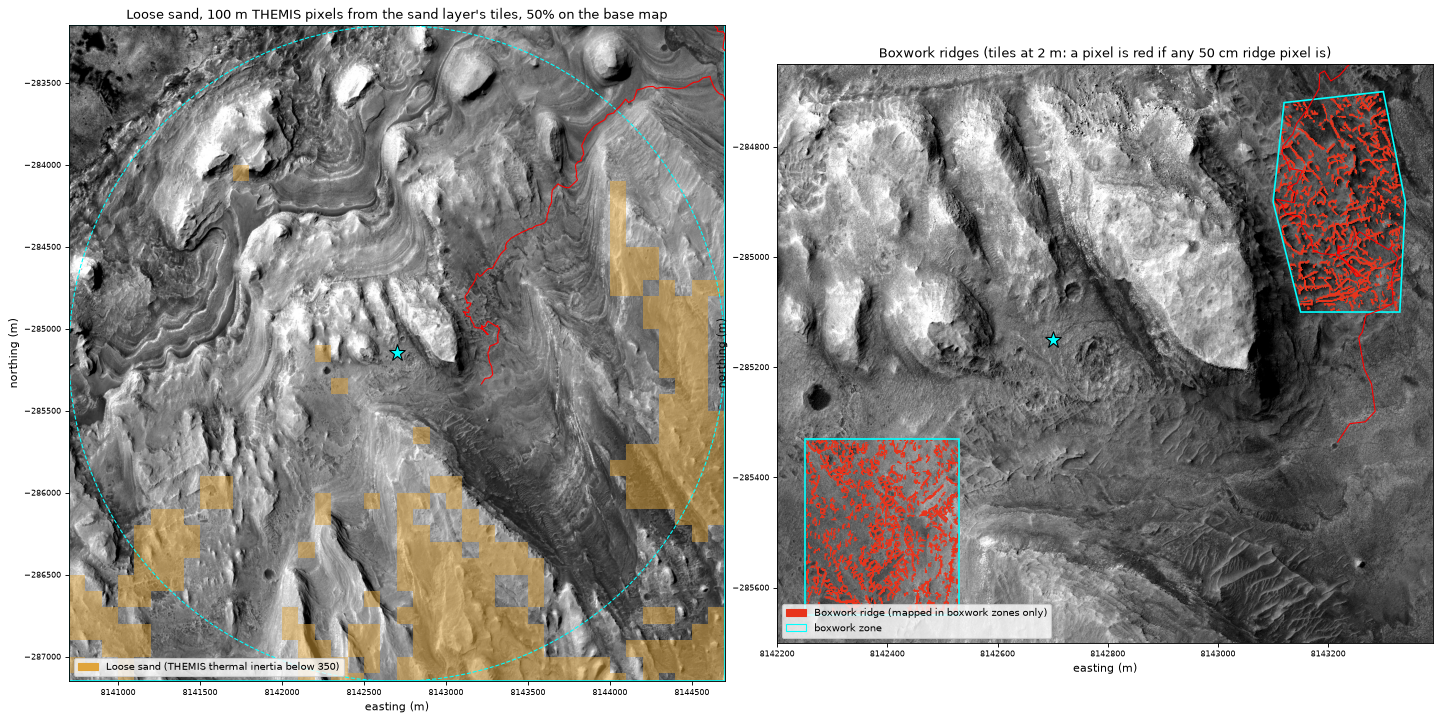
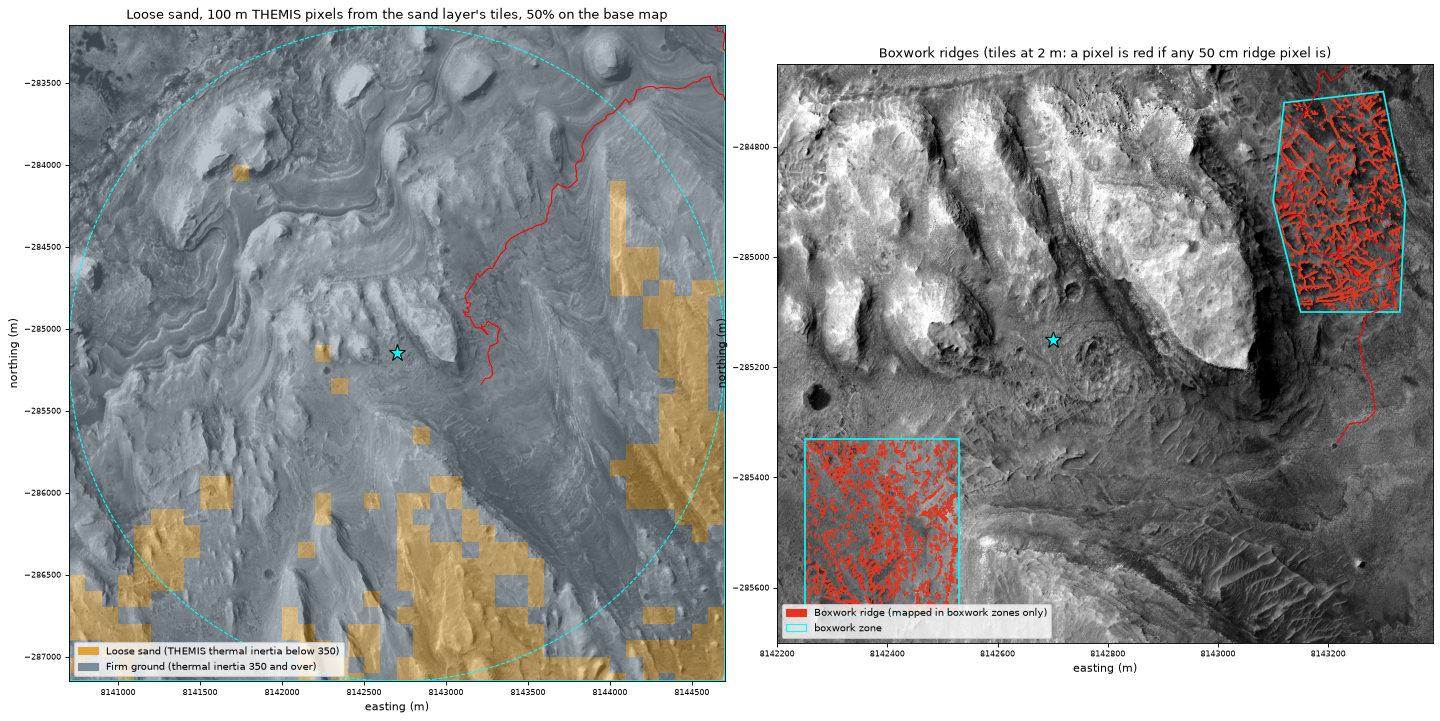
fix: reachable science targets, staged route masks, firm ground and whole chemistry overview (#20)

Changed region(s): [[0.0312, 0.0305, 0.5, 0.9459], [0.4375, 0.9154, 0.4688, 0.9459]]

diff --git a/prep/tests/test_gale_walkability_science.py b/prep/tests/test_gale_walkability_science.py
@@ -6,7 +6,9 @@ not the hollows between them nor a lone bright speck; the route's own reader rea
 both files as masks. Layer writer: each layer.json validates with its group,
 resolution and source. Science targets: a target on a drill site, on Curiosity's
 track or past the walk radius is refused; a ridge target must sit on a ridge and a
-hollow target off one.
+hollow target off one, and a target with any other kind is refused; a target walled off
+from base camp by ground over the slope limit is refused. The sand layer's tiles show
+firm ground in its own legend colour and leave only unknown ground transparent.
 
 Expected values are worked by hand from the fixtures, not from the code.
 """
@@ -20,17 +22,22 @@ from PIL import Image
 from rasterio.crs import CRS
 from rasterio.transform import from_origin
 
+from contracts.models.common import Point
 from contracts.models.layer import LayerMeta
+from contracts.models.route_request import Limits
 from contracts.models.site import SiteConfig
 from prep.gale.layers import (
+    FIRM_COLOUR,
+    SAND_COLOUR,
     build_chemistry_layer,
     build_minerals_layer,
     build_ridges_layer,
     build_sand_layer,
 )
-from prep.gale.science import check_targets, drill_sites
+from prep.gale.science import check_reachable, check_targets, drill_sites
 from prep.gale.walkability import SAND_MAX_TI, find_ridges, ridge_raster, sand_raster
 from route.layers import load_grid
+from route.planner import CostGrid
 
 SITE_PROJ = "+proj=eqc +lat_ts=0 +lon_0=0 +R=3396190 +units=m +no_defs"
 SOURCE = {"name": "test source", "url": "https://example.org/source"}
@@ -69,6 +76,30 @@ def test_thermal_inertia_below_the_cutoff_is_loose_sand_and_a_hole_stays_unknown
         assert src.res == (100.0, 100.0)
         assert src.transform.c == 1000.0 and src.transform.f == 2000.0
         assert src.read(1).tolist() == [[1, 1, 0], [0, 255, 1]]
+
+
+def test_the_sand_tiles_colour_sand_and_firm_ground_and_leave_unknown_transparent(tmp_path):
+    # 2 x 2 pixels at 100 m covering the walk area exactly: sand, firm, unknown, firm.
+    nodata = -1.0
+    ti = np.array([[300.0, 400.0], [nodata, 380.0]], dtype=np.float32)
+    sand = sand_raster(
+        _geotiff(tmp_path / "ti.tif", ti, 1000.0, 2200.0, 100.0, nodata), tmp_path / "sand.tif"
+    )
+
+    build_sand_layer(sand, (1000.0, 2000.0, 1200.0, 2200.0), tmp_path / "sand", SOURCE)
+
+    tile = np.asarray(Image.open(tmp_path / "sand" / "tiles" / "0" / "0" / "0.png").convert("RGBA"))
+    colour = {
+        (r, c): "#{:02x}{:02x}{:02x}".format(*tile[r, c, :3]) if tile[r, c, 3] else None
+        for r in range(2)
+        for c in range(2)
+    }
+    assert colour == {
+        (0, 0): SAND_COLOUR,
+        (0, 1): FIRM_COLOUR,
+        (1, 0): None,
+        (1, 1): FIRM_COLOUR,
+    }
 
 
 # ---- ridges -------------------------------------------------------------------------
@@ -292,6 +323,7 @@ def test_a_ridge_centre_and_a_hollow_clear_of_curiosity_pass(ridges):
             "past the walk radius",
         ),
         (HOLLOW_TARGET | {"x": 1075.5}, {}, "outside every boxwork zone"),
+        (HOLLOW_TARGET | {"kind": "crater"}, {}, "kind must be ridge or hollow"),
     ],
 )
 def test_a_target_that_breaks_a_rule_is_refused(ridges, target, changes, reason):
@@ -299,3 +331,36 @@ def test_a_target_that_breaks_a_rule_is_refused(ridges, target, changes, reason)
     with pytest.raises(ValueError, match=f"{target['id']}: .*{reason}") as refused:
         _check([other, target], ridges, **changes)
     assert other["id"] not in str(refused.value)
+
+
+# A 20 x 20 grid of flat 4 m cells from (0, 80) with a ring of 30 degree cells round
+# the 3 x 3 cells of rows and columns 12 to 14; base camp is at cell (2, 2).
+LIMITS = Limits(
+    max_slope_deg=20, max_distance_from_habitat_m=2000, planning_speed_kmh=2, max_walk_h=6
+)
+
+
+def _walled_grid() -> CostGrid:
+    slope = np.zeros((20, 20))
+    slope[11:16, 11:16] = 30.0
+    slope[12:15, 12:15] = 0.0
+    no = np.zeros((20, 20), dtype=bool)
+    return CostGrid(
+        site="gale", min_x=0.0, max_y=80.0, cell_m=4.0, slope_deg=slope, sand=no, ridge=no
+    )
+
+
+def test_a_target_walled_off_from_base_camp_is_refused_and_an_open_one_passes():
+    base_camp = Point(x=10.0, y=70.0)
+    open_ground = {"id": "open", "x": 42.0, "y": 70.0}
+    walled = {"id": "walled", "x": 54.0, "y": 26.0}  # cell (13, 13), inside the ring
+
+    check_reachable(
+        [open_ground], _walled_grid(), start=base_camp, habitat=base_camp, limits=LIMITS
+    )
+    with pytest.raises(ValueError, match="walled: no safe route from base camp") as refused:
+        check_reachable(
+            [open_ground, walled], _walled_grid(), start=base_camp, habitat=base_camp, limits=LIMITS
+        )
+    refused_ids = [line.split(":")[0] for line in str(refused.value).splitlines()[1:]]
+    assert refused_ids == ["walled"]

diff --git a/prep/gale/build_layers_2_3.py b/prep/gale/build_layers_2_3.py
@@ -16,9 +16,11 @@ $REDMARK_DATA/gale/:
 and, in the repo, `files.sand`, `files.ridges` and `science_targets` in sites/gale.yaml
 and copies of the overlays in prep/gale/evidence/.
 
-The science targets are checked before anything is published: each must sit inside
-the walk radius and a boxwork zone, clear of Curiosity's track and drill sites, a
-ridge target on the ridge map and a hollow target off it.
+The science targets are checked before anything is published, the sand and ridge
+rasters included: each must sit inside the walk radius and a boxwork zone, clear of
+Curiosity's track and drill sites, a ridge target on the ridge map and a hollow target
+off it, and the route engine must find a safe route to it from base camp within the
+app's default limits on the new rasters.
 """
 
 import csv
@@ -32,6 +34,7 @@ from pathlib import Path
 
 import yaml
 
+from contracts.models.route_request import Limits
 from contracts.models.site import SiteConfig
 from contracts.paths import REPO_ROOT, data_root
 from prep.common import publish_stage, sha256
@@ -51,8 +54,10 @@ from prep.gale.layers import (
     build_ridges_layer,
     build_sand_layer,
 )
-from prep.gale.science import check_targets, drill_sites, inside_polygon
+from prep.gale.science import check_reachable, check_targets, drill_sites, inside_polygon
 from prep.gale.walkability import ridge_raster, sand_raster
+from route.engine import daylight_s
+from route.layers import load_grid
 
 SITE = REPO_ROOT / "sites" / "gale.yaml"
 WALK_AREA = REPO_ROOT / "prep" / "gale" / "walk_area.yaml"
@@ -60,6 +65,11 @@ SAND_RASTER = "gale/rasters/sand.tif"
 RIDGE_RASTER = "gale/rasters/ridges.tif"
 LAYERS = "gale/layers"
 STAGE = "gale/layers-2-3.next"
+# The app's default walk limits (app/src/plan/routes.ts): a science target must be
+# reachable under these, or the app's first route request to it fails.
+APP_LIMITS = Limits(
+    max_slope_deg=20, max_distance_from_habitat_m=2000, planning_speed_kmh=2, max_walk_h=6
+)
 
 
 def main() -> None:
@@ -81,10 +91,15 @@ def build(root: Path) -> None:
     files = site.files
     commit = _git_commit()
 
+    stage = root / STAGE
+    shutil.rmtree(stage, ignore_errors=True)
+    staged = {
+        key: f"{STAGE}/{path}" for key, path in (("sand", SAND_RASTER), ("ridges", RIDGE_RASTER))
+    }
     print("sand from thermal inertia")
-    sand = sand_raster(root / files["thermal_inertia"], root / SAND_RASTER)
+    sand = sand_raster(root / files["thermal_inertia"], root / staged["sand"])
     print("ridge map from the photo map")
-    ridges = ridge_raster(root / files["photo_map"], walk, zones, root / RIDGE_RASTER)
+    ridges = ridge_raster(root / files["photo_map"], walk, zones, root / staged["ridges"])
 
     with (root / files["chemistry"]).open() as f:
         chemistry = list(csv.DictReader(f))
@@ -100,10 +115,22 @@ def build(root: Path) -> None:
         zones=zones,
         ridges=ridges,
     )
+    conditions = REPO_ROOT / "conditions" / f"{site.replayed_sol}.json"
+    check_reachable(
+        targets,
+        load_grid(site.model_copy(update={"files": {**files, **staged}}), root),
+        start=site.base_camp or site.habitat,
+        habitat=site.habitat,
+        limits=APP_LIMITS,
+        daylight_s=daylight_s(json.loads(conditions.read_text())),
+    )
     print(f"{len(targets)} science targets pass; {len(drilled)} drill sites in the crop")
+    # Only now do the route engine's rasters change.
+    for key, path in (("sand", SAND_RASTER), ("ridges", RIDGE_RASTER)):
+        (root / path).parent.mkdir(parents=True, exist_ok=True)
+        os.replace(root / staged[key], root / path)
+    sand, ridges = root / SAND_RASTER, root / RIDGE_RASTER
 
-    stage = root / STAGE
-    shutil.rmtree(stage, ignore_errors=True)
     points = [
         {"x": float(r["x"]), "y": float(r["y"]), "so3": float(r["SO3"]), "drill": False}
         for r in chemistry

diff --git a/prep/gale/overlays.py b/prep/gale/overlays.py
@@ -442,10 +442,13 @@ def ridge_samples(photo, layer, samples, targets, folder) -> Path:
 
 def science(photo, layers, walk, habitat, targets, drilled, track, folder) -> Path:
     """Layer 3 placed by its own layer.json on the photo map: CRISM mineral highlights
-    over the walk area, then Curiosity's chemistry and drill sites at full detail round
-    the drill sites inside the walk area."""
+    over the walk area; Curiosity's chemistry and drill sites over the whole chemistry
+    layer; then a close-up of the chemistry tiles at full detail round the drill sites
+    inside the walk area."""
     image, extent = _read_small(photo)
-    fig, (minerals, chemistry) = plt.subplots(1, 2, figsize=(22, 11), gridspec_kw={"wspace": 0.08})
+    fig, (minerals, overview, zoom) = plt.subplots(
+        1, 3, figsize=(33, 11), gridspec_kw={"wspace": 0.08}
+    )
     meta = json.loads((layers / "minerals" / "layer.json").read_text())
     _show_gray(minerals, image, extent)
     colours, c_extent = _mosaic(layers / "minerals", meta["tiles"]["max_zoom"])
@@ -460,28 +463,47 @@ def science(photo, layers, walk, habitat, targets, drilled, track, folder) -> Pa
     minerals.set_title("CRISM highlights on its own 18 m pixels, 60% on the base map")
 
     meta = json.loads((layers / "chemistry" / "layer.json").read_text())
-    inside = [d for d in drilled if walk[0] <= d["x"] <= walk[2] and walk[1] <= d["y"] <= walk[3]]
+    b = meta["bounds"]
+    whole = (b["min_x"], b["min_y"], b["max_x"], b["max_y"])
+    inside = [
+        d for d in drilled if whole[0] <= d["x"] <= whole[2] and whole[1] <= d["y"] <= whole[3]
+    ]
+    _show_gray(overview, image, extent)
+    colours, c_extent = _mosaic(layers / "chemistry", meta["tiles"]["max_zoom"])
+    overview.imshow(_masked(colours), extent=c_extent)
+    _drill_labels(overview, inside)
+    overview.plot(*habitat, "*", c="cyan", ms=16, mec="black")
+    overview.set_xlim(whole[0], whole[2])
+    overview.set_ylim(whole[1], whole[3])
+    overview.legend(handles=_legend(meta), loc="lower left", fontsize=8)
+    overview.set_title(
+        f"Whole chemistry layer, 1 m tiles: APXS points by SO3 and {len(inside)} drill sites"
+    )
+
     cx = sum(d["x"] for d in inside) / len(inside)
     cy = sum(d["y"] for d in inside) / len(inside)
     box = (cx - 300, cy - 300, cx + 300, cy + 300)
     detail, p_extent = read_window(photo, box)
-    _show_gray(chemistry, detail[::2, ::2], p_extent)
+    _show_gray(zoom, detail[::2, ::2], p_extent)
     colours, c_extent = _mosaic(layers / "chemistry", meta["tiles"]["max_zoom"], box)
-    chemistry.imshow(_masked(colours), extent=c_extent)
-    for d in inside:
-        chemistry.annotate(
-            f"{d['name']} (sol {d['sol']})", (d["x"], d["y"]), color="cyan", fontsize=8,
-            xytext=(8, -4), textcoords="offset points",
-        )  # fmt: skip
-    chemistry.set_xlim(box[0], box[2])
-    chemistry.set_ylim(box[1], box[3])
-    chemistry.legend(handles=_legend(meta), loc="lower left", fontsize=8)
-    chemistry.set_title(
-        f"Curiosity's APXS points by SO3 and its {len(inside)} drill sites in the walk area"
+    zoom.imshow(_masked(colours), extent=c_extent)
+    _drill_labels(
+        zoom, [d for d in inside if box[0] <= d["x"] <= box[2] and box[1] <= d["y"] <= box[3]]
     )
+    zoom.set_xlim(box[0], box[2])
+    zoom.set_ylim(box[1], box[3])
+    zoom.set_title("Close-up, 600 m round the drill sites' centre, at full detail")
     out = folder / "science.png"
     _save(fig, out)
     return out
+
+
+def _drill_labels(ax, drilled) -> None:
+    for d in drilled:
+        ax.annotate(
+            f"{d['name']} (sol {d['sol']})", (d["x"], d["y"]), color="cyan", fontsize=8,
+            xytext=(8, -4), textcoords="offset points",
+        )  # fmt: skip
 
 
 def _targets(ax, targets, ms) -> None:

diff --git a/prep/gale/science.py b/prep/gale/science.py
@@ -5,6 +5,11 @@ import math
 
 import numpy as np
 import rasterio
+from fastapi import HTTPException
+
+from contracts.models.common import Point
+from contracts.models.route_request import Limits
+from route.planner import CostGrid, plan_on_grid
 
 # CRISM summary parameters (Viviano-Beck et al. 2014, JGR Planets 119) that pick out
 # the minerals of Mount Sharp's sulfate unit, lowest code first; where a pixel stands
@@ -39,6 +44,7 @@ def mineral_classes(bands: dict[str, np.ndarray]) -> np.ndarray:
 # Science targets: a spot Curiosity never reached, so clear of its track and drill holes.
 TARGET_CLEAR_OF_TRACK_M = 25.0
 TARGET_CLEAR_OF_DRILL_M = 50.0
+TARGET_KINDS = ("ridge", "hollow")
 # A ridge target sits on the ridge map; a hollow target has no ridge this close.
 RIDGE_TARGET_WITHIN_M = 1.0
 HOLLOW_CLEAR_OF_RIDGE_M = 3.0
@@ -78,6 +84,8 @@ def check_targets(
         ridge_map, transform = src.read(1), src.transform
     for t in targets:
         at = (t["x"], t["y"])
+        if t["kind"] not in TARGET_KINDS:
+            problems.append(f"{t['id']}: kind must be ridge or hollow, got {t['kind']!r}")
         if math.dist(at, habitat) > walk_radius_m:
             problems.append(
                 f"{t['id']}: {math.dist(at, habitat):.0f} m from the habitat, past the walk radius"
@@ -103,6 +111,29 @@ def check_targets(
             )
     if problems:
         raise ValueError("science targets refused:\n" + "\n".join(problems))
+
+
+def check_reachable(
+    targets: list[dict],
+    grid: CostGrid,
+    *,
+    start: Point,
+    habitat: Point,
+    limits: Limits,
+    daylight_s: float | None = None,
+) -> None:
+    """Refuse targets the route engine cannot reach from `start` within `limits`: its
+    fastest route to each must keep every hard limit. Raises ValueError, one line per
+    target, giving the route engine's reason."""
+    problems = []
+    for t in targets:
+        try:
+            goal = Point(x=t["x"], y=t["y"])
+            plan_on_grid(grid, start, goal, habitat, limits, daylight_s=daylight_s)
+        except HTTPException as refused:
+            problems.append(f"{t['id']}: no safe route from base camp ({refused.detail})")
+    if problems:
+        raise ValueError("science targets not reachable:\n" + "\n".join(problems))
 
 
 def _ridge_within(ridge_map: np.ndarray, transform, at: tuple[float, float], radius: float) -> bool:

diff --git a/prep/gale/layers.py b/prep/gale/layers.py
@@ -240,7 +240,7 @@ def _write_meta(
             "max_zoom": zooms[1],
         },
         "legend": legend,
-        "source": source if isinstance(source, list) else [source],
+        "source": [source],
     }
     LayerMeta.model_validate(meta)
     with written_atomically(folder / "layer.json") as part:
@@ -262,6 +262,7 @@ def _rgb(colour: str) -> tuple[int, int, int]:
 # out to whole source pixels, so nothing is resampled.
 
 SAND_COLOUR = "#e0a43a"
+FIRM_COLOUR = "#7a8c99"
 RIDGE_COLOUR = "#e8341c"
 # Highest code first wins where a pixel is in two classes.
 MINERAL_COLOURS = {
@@ -284,10 +285,15 @@ DRILL_COLOUR = "#00d8ff"
 
 
 def build_sand_layer(sand: Path, walk: Bounds, folder: Path, source: dict) -> dict:
-    """Loose sand from the sand raster, on its own 100 m pixels."""
+    """Loose sand and firm ground from the sand raster, on its own 100 m pixels;
+    transparent only where thermal inertia is unknown. Sand has the higher code, so it
+    wins a coarser pixel it shares with firm ground."""
     values, bounds, res = _on_own_grid(sand, walk)
-    classes = (values == 1).astype(np.uint8)
-    legend = [(1, f"Loose sand (THEMIS thermal inertia below {SAND_MAX_TI})", SAND_COLOUR)]
+    classes = np.select([values == 1, values == 0], [2, 1], 0).astype(np.uint8)
+    legend = [
+        (2, f"Loose sand (THEMIS thermal inertia below {SAND_MAX_TI})", SAND_COLOUR),
+        (1, f"Firm ground (thermal inertia {SAND_MAX_TI} and over)", FIRM_COLOUR),
+    ]
     return build_class_layer(
         classes, bounds, res, folder, name="sand", title="Loose sand", group=2,
         units="", legend=legend, source=source,

diff --git a/prep/README.md b/prep/README.md
@@ -38,10 +38,10 @@ Every Jezero position is in the site frame `+proj=eqc +lat_ts=18.4663 +lon_0=0 +
 
 `REDMARK_DATA=~/redmark-data uv run python -m prep.gale.build_layers_2_3` reads the P2-01 crops named in `sites/gale.yaml` and the boxwork zones and science targets in `gale/walk_area.yaml`. It writes, under `$REDMARK_DATA/gale/`, `rasters/sand.tif` and `rasters/ridges.tif` (for the route engine) and four layers, each with a `provenance.json`: `layers/sand/` and `layers/ridges/` (group 2), `layers/minerals/` and `layers/chemistry/` (group 3). It also writes three overlays in `layers/overlays/`, copied to `gale/evidence/`, and in `sites/gale.yaml` it sets `files.sand`, `files.ridges` and `science_targets`. It takes about 30 seconds. Each layer keeps the pixels of its source: sand on THEMIS's 100 m, minerals on CRISM's 18 m (both with bounds grown out to whole source pixels, so nothing is resampled), ridges at 50 cm, chemistry at 1 m. Going down a zoom, each pixel keeps the highest class it covers, so a thin ridge or a lone point never averages away.
 
-- **Sand.** A 100 m cell is loose sand where THEMIS thermal inertia is under 350. That is a RedMark cutoff, not a published one. Most of Gale reads 250 to 410, an indurated surface mixed with loose material (Fergason et al. 2012). Under 350 is the loose end, about a fifth of the walk area: the dark floor to the south and east. The THEMIS offset recorded in P2-01 (up to about 250 m, weak correlation) applies here too, so read sand at the 100 m scale, never per metre. `sand.tif` is 1 for sand, 0 for firm ground and 255 for unknown.
+- **Sand.** A 100 m cell is loose sand where THEMIS thermal inertia is under 350. That is a RedMark cutoff, not a published one. Most of Gale reads 250 to 410, an indurated surface mixed with loose material (Fergason et al. 2012). Under 350 is the loose end, about a fifth of the walk area: the dark floor to the south and east. The THEMIS offset recorded in P2-01 (up to about 250 m, weak correlation) applies here too, so read sand at the 100 m scale, never per metre. `sand.tif` is 1 for sand, 0 for firm ground and 255 for unknown. The layer shows sand and firm ground each in its own colour, and leaves only unknown ground transparent.
 - **Ridges.** The finder looks for bright lines 0.75 to 1.25 m across on the photo, averaged to 50 cm. Each pixel is first set against its surroundings within 10 m, so a ridge reads the same in bright and dark ground. Ridge strength is the curvature across the line. Pixels stronger than 0.4 are ridge, and pieces under 8 m² are dropped. It traces the lit rims of the boxwork cells well, but it also marks layered bedrock and sand ripples, which have the same local contrast. So ridges are mapped only inside the boxwork zones in `walk_area.yaml`, traced by eye: the network Curiosity drove through, and the off-track field 450 m south-west of the habitat. Outside them `ridges.tif` is 0, meaning not mapped. `ridge-samples.png` sets the ridge tiles beside the photo in three areas: round the targets, at the centre of Curiosity's boxwork, and at a stop on its track. The rough bedrock at the stop on the track gets the weakest map: some rims are missed.
 - **Minerals.** Four CRISM summary parameters (Viviano-Beck et al. 2014): BD1900R2 (hydrated minerals), D2300 (Fe/Mg clay), BD2100_2 (monohydrated sulfate) and SINDEX2 (polyhydrated sulfate). A pixel is highlighted where an index is positive and in the walk area's top 5%; where two apply, the later one in that list wins. The indices here are weak, so this shows where each mineral is strongest in the walk area, not a detection. It uses the P2-01 crop with CRISM already moved onto the base map.
-- **Chemistry.** Every APXS point in the walk area as a 3 m dot, coloured by SO3 (bands at 10, 15 and 20 wt%; the median is about 14). Drill sites are 6 m cyan dots. A drill site is an APXS row measured on drill tailings (`*_tailings`): 8 in the crop, 4 in the walk area (Altadena, Valle de la Luna, Nevado Sajama, and Nevado Sajama2 at the same hole). A hole Curiosity drilled but APXS never measured would be missed.
-- **Science targets.** Set in `walk_area.yaml`: a ridge centre on the long north–south ridge in the south-west field, and a dark hollow closed in by ridges 30 m from it. Before anything is published the build checks each target and refuses the lot if one fails. The rules: within the 2 km walk radius, inside a boxwork zone, at least 25 m from Curiosity's track and 50 m from every drill site, a ridge target within 1 m of a ridge pixel, and a hollow target with no ridge pixel within 3 m.
+- **Chemistry.** Every APXS point in the walk area as a 3 m dot, coloured by SO3 (bands at 10, 15 and 20 wt%; the median is about 14). Drill sites are 6 m cyan dots. `science.png` shows the whole layer, then a close-up round the drill sites. A drill site is an APXS row measured on drill tailings (`*_tailings`): 8 in the crop, 4 in the walk area (Altadena, Valle de la Luna, Nevado Sajama, and Nevado Sajama2 at the same hole). A hole Curiosity drilled but APXS never measured would be missed.
+- **Science targets.** Set in `walk_area.yaml`: a lit ridge between two pits in the south-west field, and the floor of a 20 m cell closed in by ridges 50 m south of it. Before anything is published, the sand and ridge rasters included, the build checks each target and refuses the lot if one fails. The rules: within the 2 km walk radius, inside a boxwork zone, at least 25 m from Curiosity's track and 50 m from every drill site, a ridge target within 1 m of a ridge pixel, a hollow target with no ridge pixel within 3 m, a kind of `ridge` or `hollow`, and a fastest route from base camp that the route engine finds on the new rasters under the app's default limits (20°, 2 km from the habitat, 2 km/h, 6 h, sol 4600's daylight). That last rule moved both targets: the route engine plans on 4 m cells that each keep their steepest metre, which walls off most of the field's hollows at 20°. At the cautious 15° no route leaves base camp at all.
 - **Stubs.** `contracts/stubs/stub-data/gale/rasters/sand.tif` and `ridges.tif` are 40 × 40 cells of 100 m, all 0 (firm, ridge-free), force-added like the slope stub, so the route engine finds every file `sites/gale.yaml` names when `REDMARK_DATA` is unset.
 - **Rolling out.** As with layer 1: copy `gale/rasters/sand.tif`, `gale/rasters/ridges.tif` and `gale/layers/` into each `REDMARK_DATA` before that checkout pulls this config, or `POST /route` fails.
